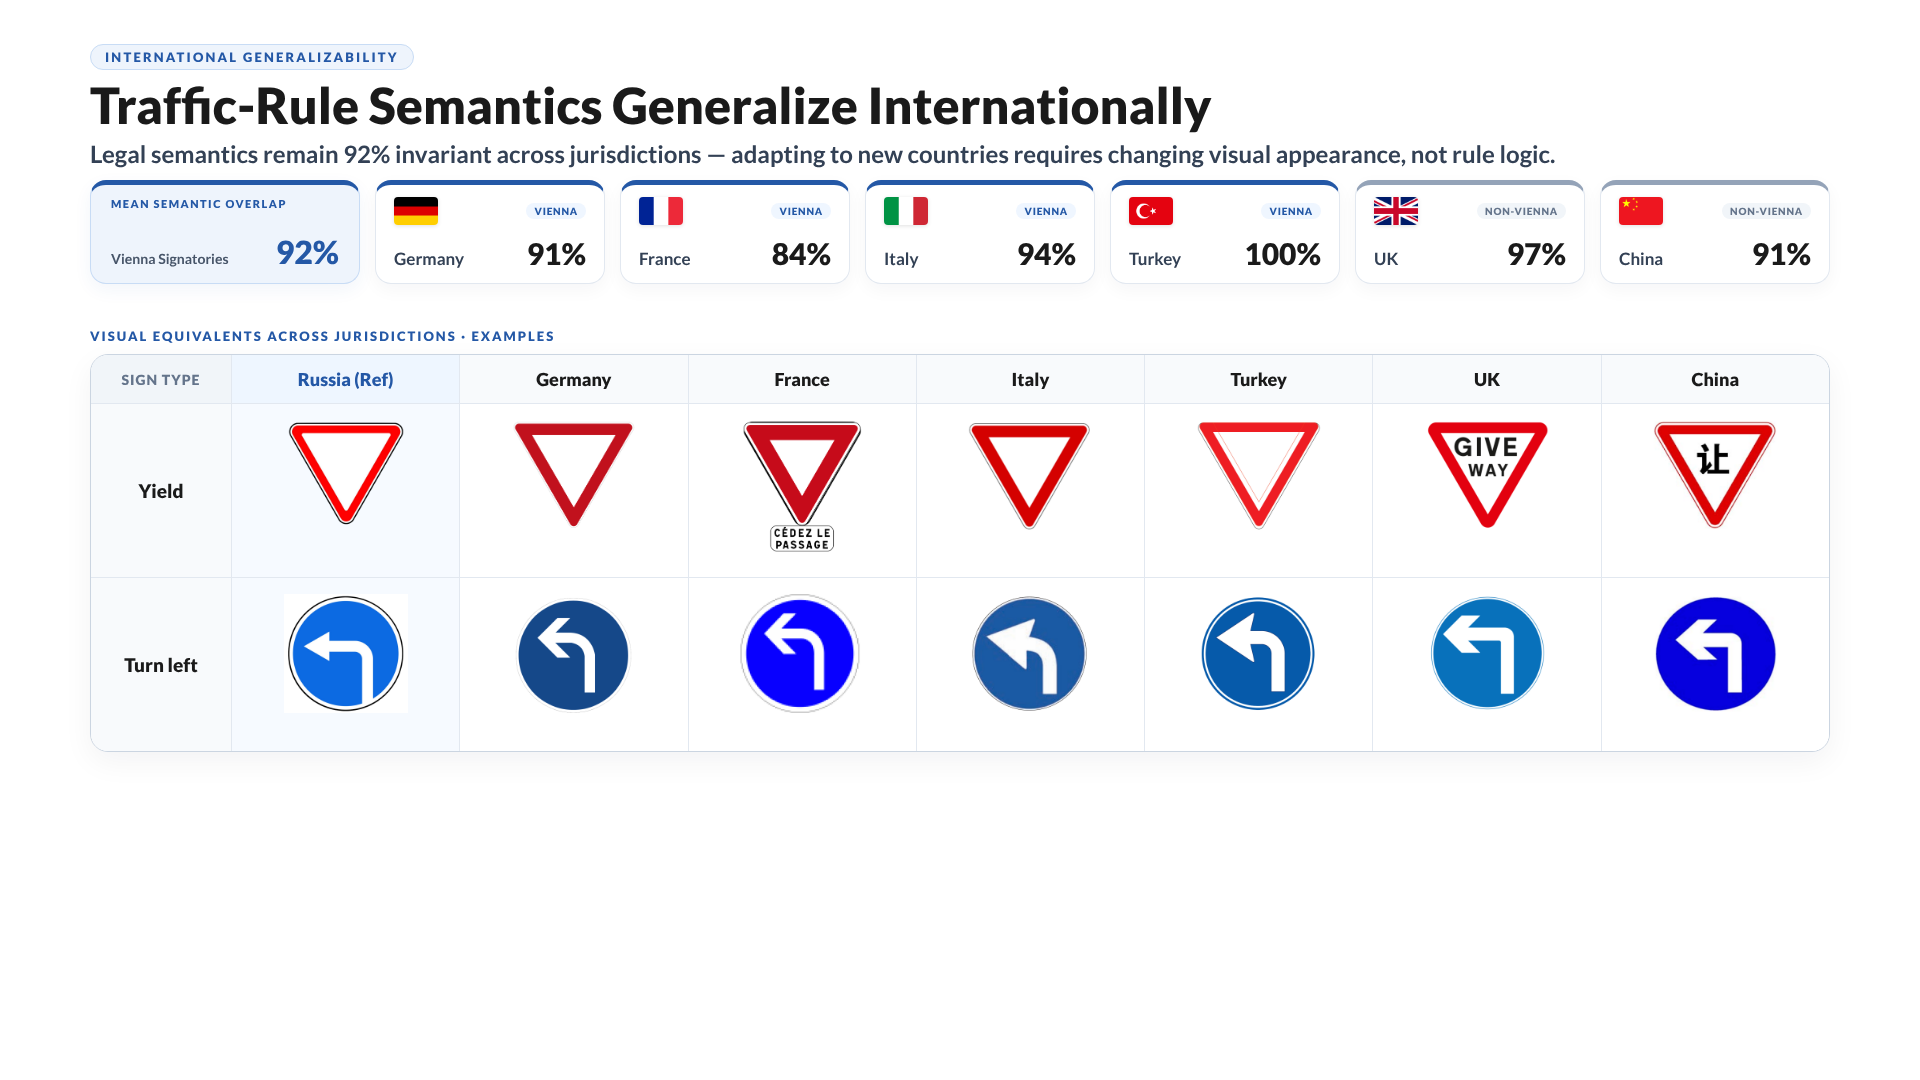
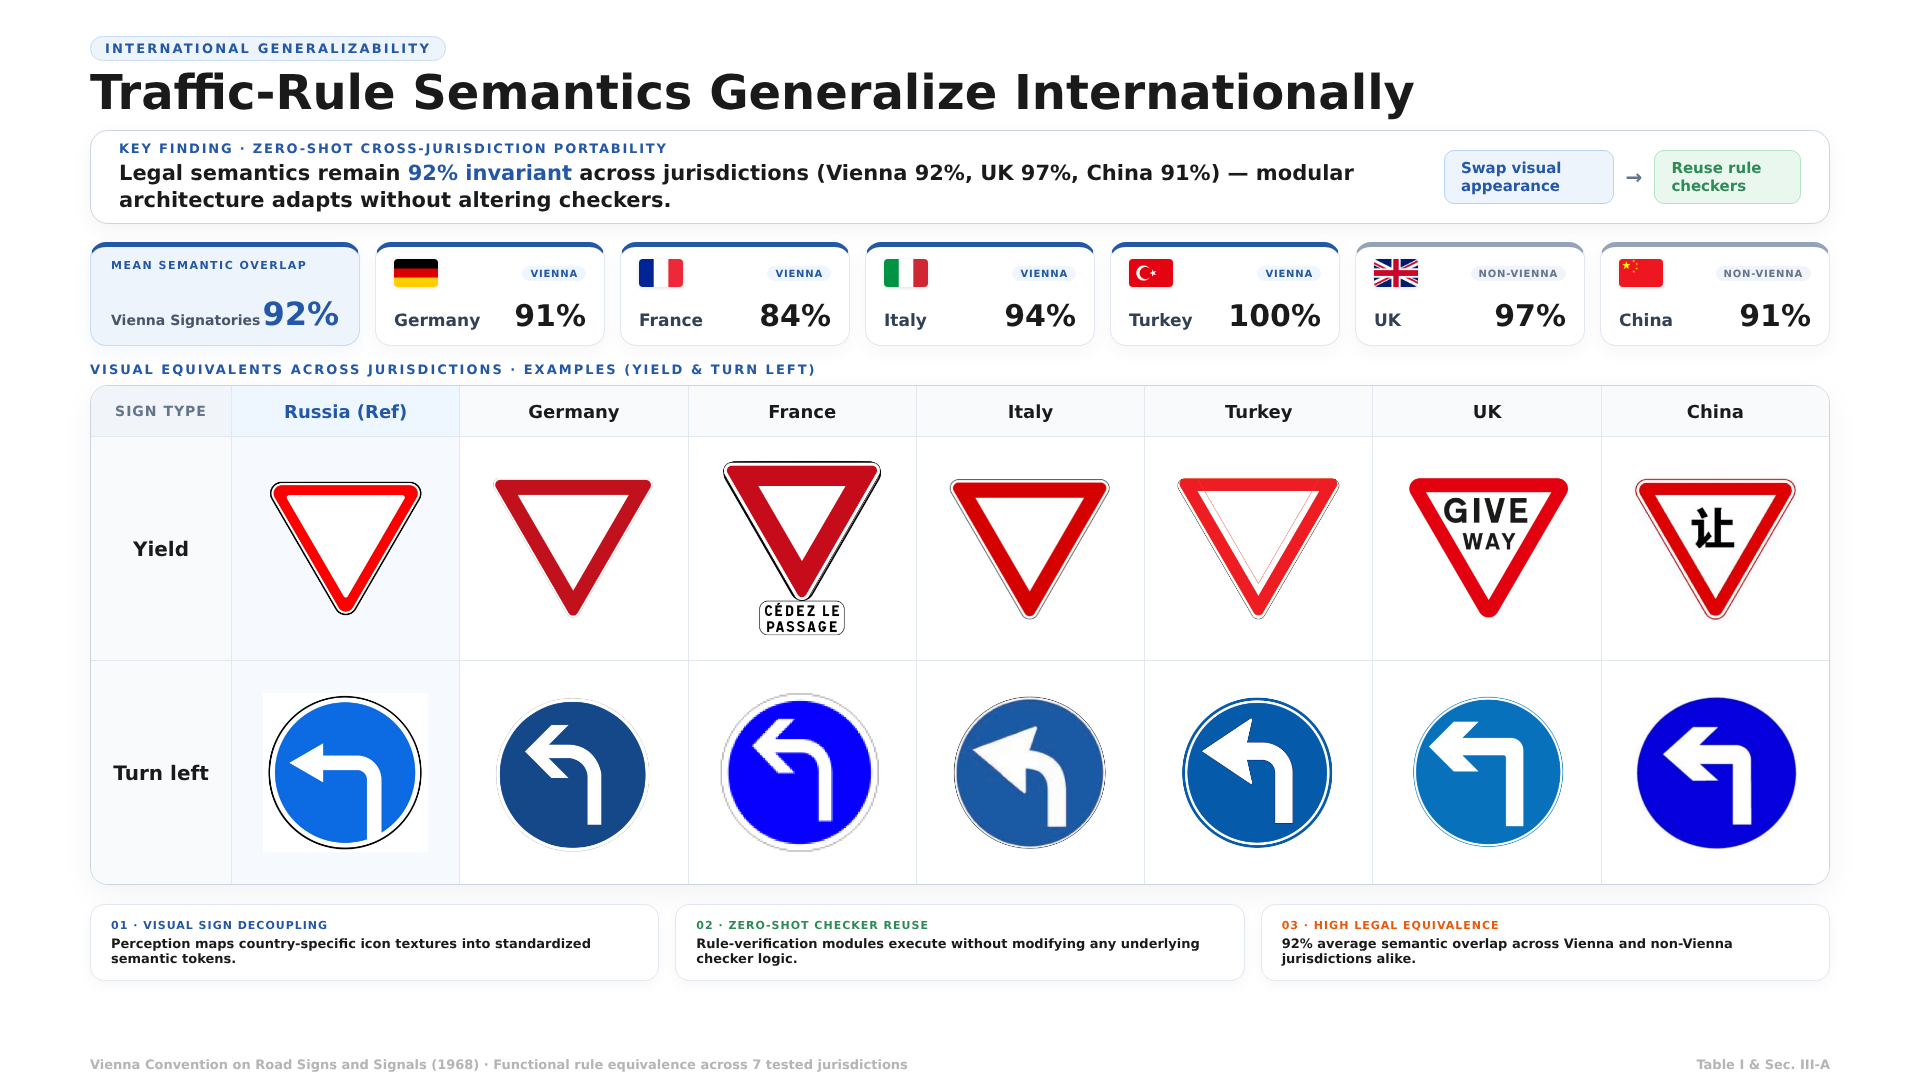
Update scenes with small fixes

diff --git a/icra-video/src/scenes/S02_Benchmark.tsx b/icra-video/src/scenes/S02_Benchmark.tsx
@@ -41,16 +41,18 @@ const CLIPS = [
   "speed_carl_rule",
 ] as const;
 
-// 7 columns x 5 rows = 35 clips (1 clip left out of 36 as requested)
-const COLS = 7;
-const ROWS = 5;
-const CLIPS_35 = CLIPS.slice(0, COLS * ROWS);
+// 9 columns × 4 rows = 36 clips
+const COLS = 9;
+const ROWS = 4;
+const CLIPS_GRID = CLIPS.slice(0, COLS * ROWS);
 
-const TILE_W = 260;
-const TILE_H = 195;
-const GAP = 10;
-const GRID_W = COLS * TILE_W + (COLS - 1) * GAP; // 1880
-const GRID_H = ROWS * TILE_H + (ROWS - 1) * GAP; // 1015
+// Sized so scale=1 fills the 1920×1080 frame (all 36 tiles visible, no empty margins).
+const TILE_W = 206;
+const TILE_H = 264;
+const GAP = 8;
+const GRID_W = COLS * TILE_W + (COLS - 1) * GAP; // 1918
+const GRID_H = ROWS * TILE_H + (ROWS - 1) * GAP; // 1080
+const ZOOM_END = Math.min(1920 / GRID_W, 1080 / GRID_H); // ≈1.001 — full mosaic in frame
 
 // Compact, elegant central glass card
 const CARD_W = 700;
@@ -59,22 +61,22 @@ const CARD_H = 390;
 export const S02_Benchmark: React.FC = () => {
   const t = useT();
 
-  // Dramatic cinematic zoom-out from single-scenario close-up (6.0x) to 35-scenario wide-format mosaic (0.98x)
-  const camera = interpolate(t, [0, 8.5], [6.0, 0.98], {
+  // Pull back until the full mosaic fills the frame — stop there (no letterbox margins).
+  const camera = interpolate(t, [0, 7.2], [5.4, ZOOM_END], {
     ...clamp,
-    easing: Easing.bezier(0.16, 1, 0.3, 1),
+    easing: Easing.bezier(0.4, 0.0, 0.2, 1),
   });
 
-  // Frosted glass card emerges smoothly as camera sweeps back into wide perspective
-  const cardOpacity = interpolate(t, [1.0, 1.8], [0, 1], clamp);
-  const cardScale = interpolate(t, [1.0, 1.8], [0.92, 1], {
+  // Frosted glass card emerges as the mosaic starts to open up
+  const cardOpacity = interpolate(t, [0.7, 1.4], [0, 1], clamp);
+  const cardScale = interpolate(t, [0.7, 1.4], [0.94, 1], {
     ...clamp,
-    easing: Easing.bezier(0.16, 1, 0.3, 1),
+    easing: Easing.bezier(0.22, 1, 0.36, 1),
   });
 
   return (
     <Scene>
-      {/* 5 x 7 Grid Mosaic of 35 diverse benchmark rollouts */}
+      {/* 4 × 9 mosaic of 36 diverse benchmark rollouts */}
       <div
         style={{
           position: "absolute",
@@ -86,7 +88,7 @@ export const S02_Benchmark: React.FC = () => {
           transformOrigin: "center",
         }}
       >
-        {CLIPS_35.map((clip, index) => {
+        {CLIPS_GRID.map((clip, index) => {
           const row = Math.floor(index / COLS);
           const col = index % COLS;
           return (
@@ -126,7 +128,7 @@ export const S02_Benchmark: React.FC = () => {
           width: CARD_W,
           height: CARD_H,
           borderRadius: 24,
-          background: "rgba(255, 255, 255, 0.25)",
+          background: "rgba(255, 255, 255, 0.55)",
           backdropFilter: "blur(4px)",
           boxShadow: "0 24px 70px rgba(10, 25, 45, 0.20)",
           border: "1.5px solid rgba(255, 255, 255, 0.50)",
@@ -225,7 +227,7 @@ export const S02_Benchmark: React.FC = () => {
               color: "#B96E12",
             },
           ].map((pillar, index) => {
-            const pOpacity = interpolate(t, [2.1 + index * 0.35, 2.5 + index * 0.35], [0, 1], clamp);
+            const pOpacity = interpolate(t, [1.7 + index * 0.28, 2.05 + index * 0.28], [0, 1], clamp);
             return (
               <div
                 key={pillar.title}
@@ -259,7 +261,7 @@ export const S02_Benchmark: React.FC = () => {
             gap: 36,
             alignItems: "center",
             justifyContent: "center",
-            opacity: interpolate(t, [3.4, 4.0], [0, 1], clamp),
+            opacity: interpolate(t, [2.7, 3.2], [0, 1], clamp),
           }}
         >
           {[

diff --git a/icra-video/src/config/subtitles.ts b/icra-video/src/config/subtitles.ts
@@ -5,13 +5,13 @@ import type { SubLine } from "../lib/Subtitles";
 
 export const SUBTITLES: Record<SceneKey, SubLine[]> = {
   s01_hook: [
-    { from: 0.5, to: 10.0, text: "PlanT-2 reaches the destination without a collision and receives a high driving score of 90." },
-    { from: 10.2, to: 15.2, text: "Yet under conventional metrics, critical traffic-rule violations go completely unnoticed." },
+    { from: 0.5, to: 8.5, text: "PlanT-2 reaches the destination without a collision and receives a high driving score of 90." },
+    { from: 8.6, to: 15.2, text: "Yet under conventional metrics, critical traffic-rule violations go completely unnoticed." },
     { from: 15.3, to: 20.5, text: "At step 50, ego fails to yield to pedestrians on the crosswalk. Existing benchmarks do not make compliance directly verifiable." },
   ],
   s02_benchmark: [
-    { from: 0.4, to: 5.5, text: "To address this gap, we introduce TrafficSignBench — a large-scale benchmark for systematic compliance evaluation." },
-    { from: 5.8, to: 11.5, text: "It combines 34 traffic signs, automatic rule checkers, and 29,000 rule-targeted closed-loop scenarios across 17 planners." },
+    { from: 0.4, to: 4.2, text: "To address this gap, we introduce TrafficSignBench — a large-scale benchmark for systematic compliance evaluation." },
+    { from: 4.3, to: 8.7, text: "It combines 34 traffic signs, automatic rule checkers, and 29,000 rule-targeted closed-loop scenarios across 17 planners." },
   ],
   s02b_taxonomy: [
     { from: 0.3, to: 5, text: "We begin with the eight sign classes of a Vienna-Convention reference system." },

diff --git a/icra-video/src/Root.tsx b/icra-video/src/Root.tsx
@@ -8,6 +8,8 @@ import { AbsoluteFill } from "remotion";
 import { FT_SCENE } from "./config/fineTuningScene";
 import { FONT } from "./config/style";
 import { S10_FineTuning } from "./scenes/S10_FineTuning";
+import { S02B_Taxonomy } from "./scenes/S02B_Taxonomy";
+import { S07_Portability } from "./scenes/S07_Portability";
 
 export const RemotionRoot: React.FC = () => {
   return (
@@ -15,6 +17,8 @@ export const RemotionRoot: React.FC = () => {
       <Composition id="ICRA-Full" component={FullVideo} durationInFrames={TOTAL_FRAMES} fps={FPS} width={1920} height={1080} />
       <Composition id="ICRA-Intro" component={IntroVideo} durationInFrames={INTRO_FRAMES} fps={FPS} width={1920} height={1080} />
       <Composition id="FineTuning-Preview" component={FineTuningPreview} defaultProps={{ selectionScene: FT_SCENE.selection.scene }} durationInFrames={Math.ceil(FT_SCENE.durationSec * FPS)} fps={FPS} width={1920} height={1080} />
+      <Composition id="S02B-Taxonomy" component={S02B_Taxonomy} durationInFrames={18 * 30} fps={30} width={1920} height={1080} />
+      <Composition id="S07-Portability" component={S07_Portability} durationInFrames={8 * 30} fps={30} width={1920} height={1080} />
       <Folder name="Prototypes">
         <Composition id="Prototype" component={Prototype} durationInFrames={675} fps={30} width={1920} height={1080} />
         <Composition id="PrototypeV2" component={PrototypeV2} durationInFrames={915} fps={30} width={1920} height={1080} />

diff --git a/icra-video/src/config/timing.ts b/icra-video/src/config/timing.ts
@@ -9,7 +9,7 @@ export const FPS = 30;
 
 export const SCENE_SECONDS = {
   s01_hook: 21,
-  s02_benchmark: 12,
+  s02_benchmark: 9,
   s02b_taxonomy: 18,
   s07_portability: 8,
   s03_realmaps: 18,
@@ -49,7 +49,8 @@ export const SCENE_FADE = 0.35;
 
 // In-scene reveal times, in seconds from the start of that scene.
 export const T = {
-  s01: { headline: 0.25, example: 0.75, checks: 10.3, ruleFail: 15.3, mainText: 16.6 },
+  // checks: early in the first pass (shortly after headline + example)
+  s01: { headline: 0.25, example: 0.75, checks: 2.6, ruleFail: 15.3, mainText: 16.6 },
   s02: { title: 0.2, cards: 1.0, cardStep: 0.35, numbers: 5.5 },
   s03: {
     map: 0.1,

diff --git a/icra-video/src/scenes/S01_Hook.tsx b/icra-video/src/scenes/S01_Hook.tsx
@@ -133,7 +133,7 @@ export const S01_Hook: React.FC = () => {
           </div>
         </Reveal>
 
-        {/* Metrics appear after the 1st run of the video completes */}
+        {/* Metrics mid first-pass — shortly after the example badge */}
         <div style={{ marginTop: 24, display: "grid", gridTemplateColumns: "1fr 1fr", gap: 14 }}>
           {METRICS.map((metric, index) => (
             <Reveal
